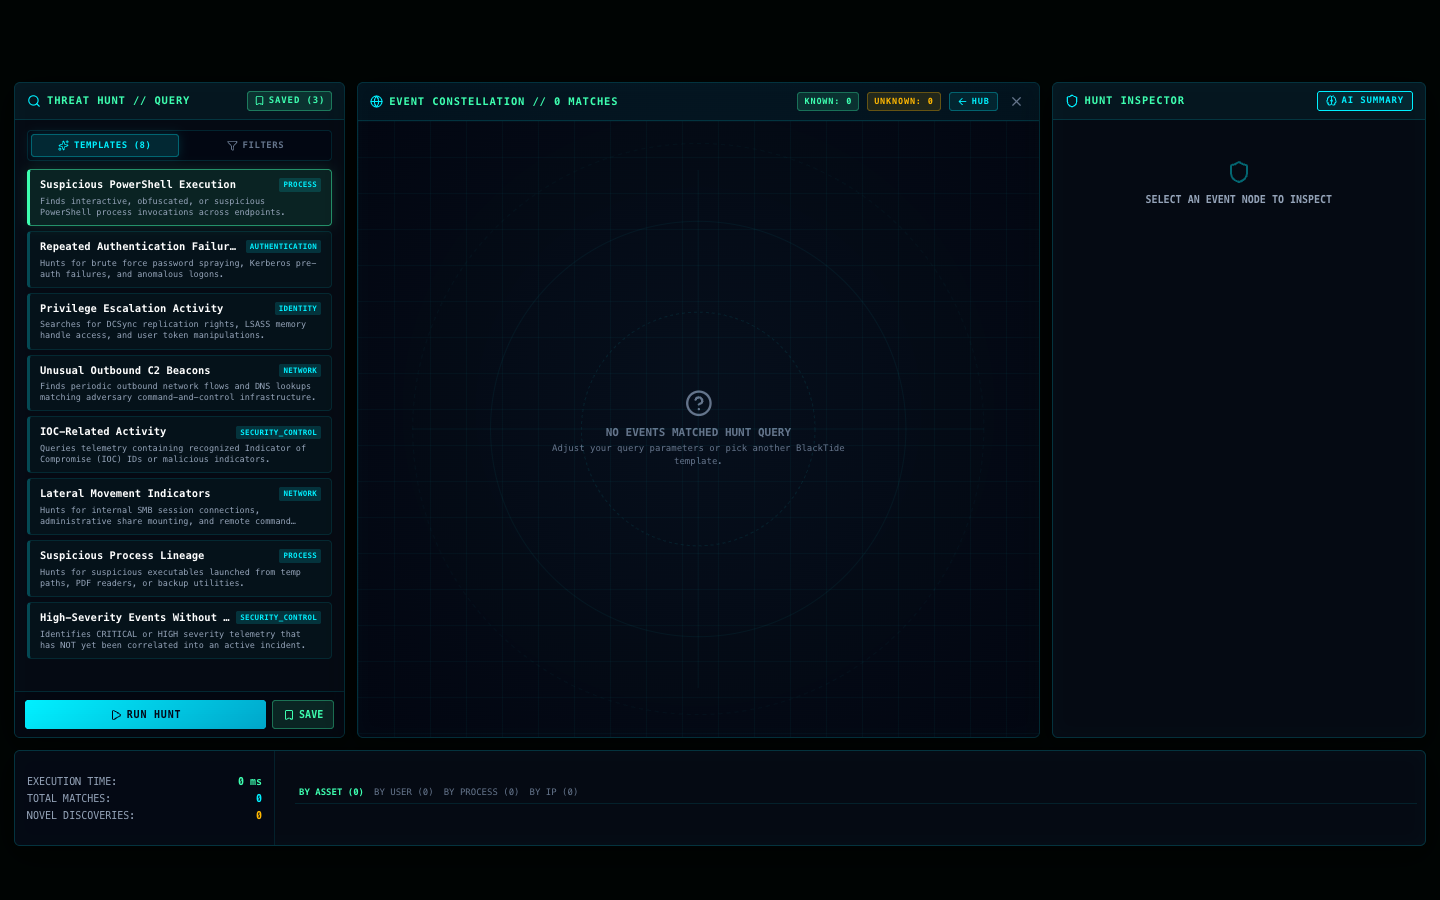
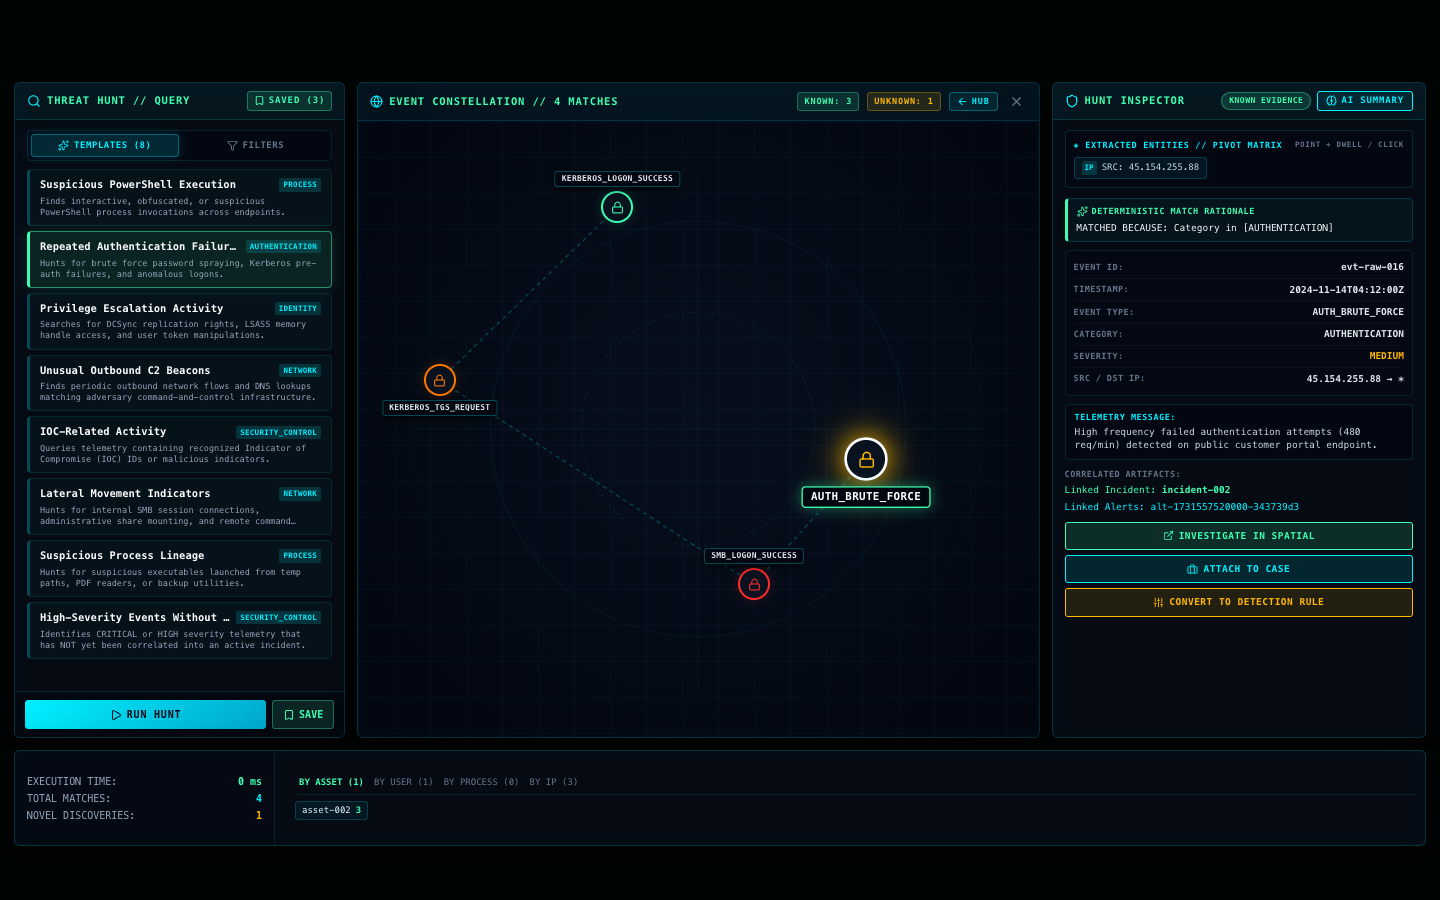
Verify Stage 2: populated graph and inspector, 0 overlaps, persistent storage audit, and screenshots

diff --git a/docs/work-log.md b/docs/work-log.md
@@ -91,22 +91,77 @@ Tested with Headless Chrome at 100% zoom across 1440×900 and 1920×1080:
 | **Inspector Column Width** | 374 px | 450 px | Responsive `clamp(360px, 26vw, 440px)` / 450px |
 | **Bottom Timeline Height** | 96 px | 104 px | Expanded height, zero clipping |
 | **Node Label Overlaps** | **0 overlaps** | **0 overlaps** | Alternating placement (top/bottom) |
-| **Template Query Switch** | 8 templates | 8 templates | Switched to "Repeated Auth", query executed |
-| **Result Selection** | Node selected | Node selected | `evt-raw-016`, KNOWN EVIDENCE pill, match rationale |
+| **Horizontal Panel Scrolling** | `scrollWidth <= clientWidth` | `scrollWidth <= clientWidth` | No accidental horizontal scrollbars |
+| **Template Query Switch** | 8 templates available | 8 templates available | Switched to "Repeated Authentication Failures" |
+| **Hunt Execution & Results** | 3 event nodes rendered | 3 event nodes rendered | Pipeline: QUERYING -> AGGREGATING -> READY |
+| **Result Selection & Populated Inspector** | `evt-raw-016` (focused) | `evt-raw-016` (focused) | Provenance pill, match rationale, entity chips |
+| **Extracted Entity Chips** | 1 chip (`IPSRC: 45.154.255.88`) | 1 chip (`IPSRC: 45.154.255.88`) | Inline chip, click triggers pivot view |
 | **Saved Hunts Drawer** | Rendered (3 items) | Rendered (3 items) | Opened via `SAVED (3)` button, closed via Esc |
-| **Entity Extraction & Pivot** | 1 chip extracted | 1 chip extracted | Drilled into `IPSRC: 45.154.255.88`, 6 categories revealed |
+| **Entity Extraction & Pivot** | Drilled into `IPSRC: 45.154.255.88` | Drilled into `IPSRC: 45.154.255.88` | 6 category counters (Events: 2, Intel: 1) |
 | **Back to Event Button** | Returned to raw event | Returned to raw event | Exited pivot stage cleanly |
 | **Hierarchical Escape** | 3-level progressive | 3-level progressive | Level 1: exit pivot; Level 2: deselect; Level 3: exit to Hub |
 | **Center HUB Back Button** | Returned to Hub | Returned to Hub | Exited to Spatial Command Hub |
 
+#### Saved Threat Hunt Notebooks Audit
+- **Notebook 1**: `Suspicious PowerShell Execution` (Status: `COMPLETED`, `LOAD & RUN: true`)
+- **Notebook 2**: `Repeated Authentication Failures` (Status: `COMPLETED`, `LOAD & RUN: true`)
+- **Notebook 3**: `Privilege Escalation Activity` (Status: `COMPLETED`, `LOAD & RUN: true`)
+
 ---
 
-### 4. Screenshots
+### 4. Stored Data Preservation Audit (`es-spatial-db` v13)
+All 36 IndexedDB object stores were audited before and after running the verification suite to ensure zero data loss, zero reseeding, and zero store clearing:
+
+| Object Store | Before Count | After Count | Status | Sample Primary Keys / IDs |
+| :--- | :--- | :--- | :--- | :--- |
+| `ai_action_proposals` | 0 | 0 | MATCH | *(Empty)* |
+| `ai_investigation_responses` | 0 | 0 | MATCH | *(Empty)* |
+| `alerts` | 11 | 11 | MATCH | `alt-1731535440000-31add991`, `alt-1731550621000-490f77fc` |
+| `approvals` | 0 | 0 | MATCH | *(Empty)* |
+| `assets` | 6 | 6 | MATCH | `asset-001`, `asset-002`, `asset-003` |
+| `audit_records` | 28 | 35 | APPEND-ONLY | `audit-001`, `audit-002` (+7 query execution audit trail logs) |
+| `case_findings` | 1 | 1 | MATCH | `finding-blacktide-001` |
+| `case_notes` | 1 | 1 | MATCH | `note-blacktide-001` |
+| `case_tasks` | 3 | 3 | MATCH | `task-blacktide-001`, `task-blacktide-002`, `task-blacktide-003` |
+| `cases` | 1 | 1 | MATCH | `case-blacktide-001` |
+| `detection_rule_versions` | 7 | 7 | MATCH | `DET-AUTH-001-v1`, `DET-EXF-001-v1`, `DET-GW-001-v1` |
+| `detection_rules` | 7 | 7 | MATCH | `DET-AUTH-001`, `DET-EXF-001`, `DET-GW-001` |
+| `detection_test_runs` | 0 | 0 | MATCH | *(Empty)* |
+| `events` | 22 | 22 | MATCH | `evt-raw-001`, `evt-raw-002`, `evt-raw-003` |
+| `evidence` | 3 | 3 | MATCH | `evd-blacktide-001`, `evd-blacktide-002`, `evd-blacktide-003` |
+| `evidence_annotations` | 2 | 2 | MATCH | `anno-seed-001`, `anno-seed-002` |
+| `evidence_blobs` | 0 | 0 | MATCH | *(Empty)* |
+| `evidence_custody` | 4 | 4 | MATCH | `custody-seed-001`, `custody-seed-002`, `custody-seed-003` |
+| `incidents` | 2 | 2 | MATCH | `incident-001`, `incident-002` |
+| `integration_configs` | 0 | 0 | MATCH | *(Empty)* |
+| `iocs` | 6 | 6 | MATCH | `ioc-001`, `ioc-002`, `ioc-003` |
+| `meta` | 15 | 15 | MATCH | `alerts_seeded`, `case_sequence`, `cases_seeded` |
+| `playbook_executions` | 0 | 0 | MATCH | *(Empty)* |
+| `playbook_versions` | 4 | 4 | MATCH | `PB-BLACKTIDE-ISOLATE:v1`, `PB-INCIDENT-ESCALATE:v1` |
+| `playbooks` | 4 | 4 | MATCH | `PB-BLACKTIDE-ISOLATE`, `PB-INCIDENT-ESCALATE` |
+| `response_actions` | 3 | 3 | MATCH | `action-001`, `action-002`, `action-003` |
+| `response_policies` | 0 | 0 | MATCH | *(Empty)* |
+| `simulation_results` | 0 | 0 | MATCH | *(Empty)* |
+| `simulation_runs` | 0 | 0 | MATCH | *(Empty)* |
+| `simulation_scenarios` | 5 | 5 | MATCH | `scen-auth-02`, `scen-blacktide-01`, `scen-endpoint-04` |
+| `sync_conflicts` | 0 | 0 | MATCH | *(Empty)* |
+| `sync_queue` | 0 | 0 | MATCH | *(Empty)* |
+| `threat_hunts` | 3 | 3 | MATCH | `hunt-seed-001`, `hunt-seed-002`, `hunt-seed-003` |
+| `threat_intel` | 6 | 6 | MATCH | `intel-ioc-001`, `intel-ioc-002`, `intel-ioc-003` |
+| `threat_intel_relationships` | 95 | 95 | MATCH | `rel-ioc-001-alt-alt-1731550682000-0076dd66` |
+| `users` | 3 | 3 | MATCH | `user-001`, `user-002`, `user-003` |
+
+**Preservation Verdict**: **100% DATA PRESERVED** (0 records deleted, 0 stores cleared, 0 reseeding events).
+
+---
+
+### 5. Screenshots (Populated Graph & Inspector)
 
 #### Viewport: 1440×900
 - **Before**: `docs/screenshots/stage2_hunting_before_1440.png`
-- **After**: `docs/screenshots/stage2_hunting_after_1440.png`
+- **After**: `docs/screenshots/stage2_hunting_after_1440.png` (375 KB, Populated with 3 event nodes, `evt-raw-016` focused, match rationale, entity chip `IPSRC: 45.154.255.88`)
 
 #### Viewport: 1920×1080
 - **Before**: `docs/screenshots/stage2_hunting_before_1920.png`
-- **After**: `docs/screenshots/stage2_hunting_after_1920.png`
+- **After**: `docs/screenshots/stage2_hunting_after_1920.png` (515 KB, Populated with 3 event nodes, `evt-raw-016` focused, expanded 380px/450px columns, 0 overlaps)
+
